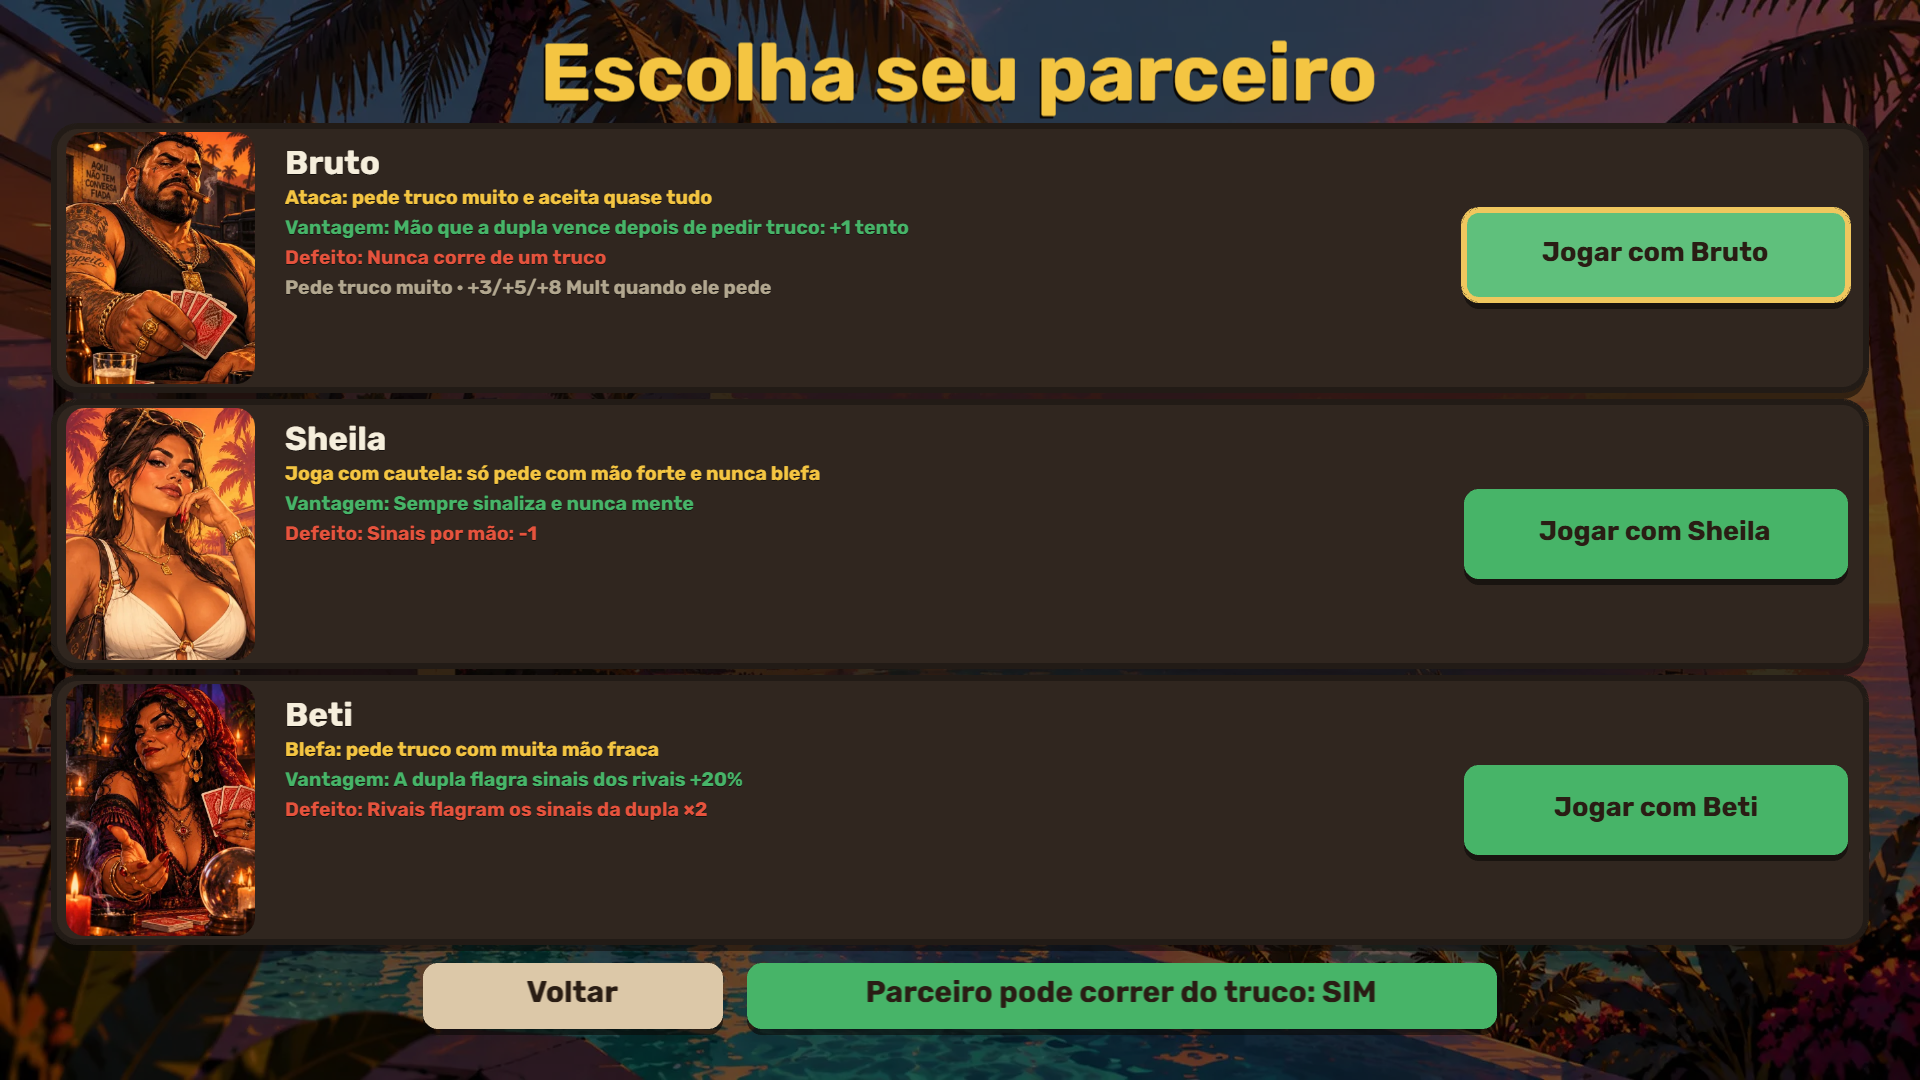
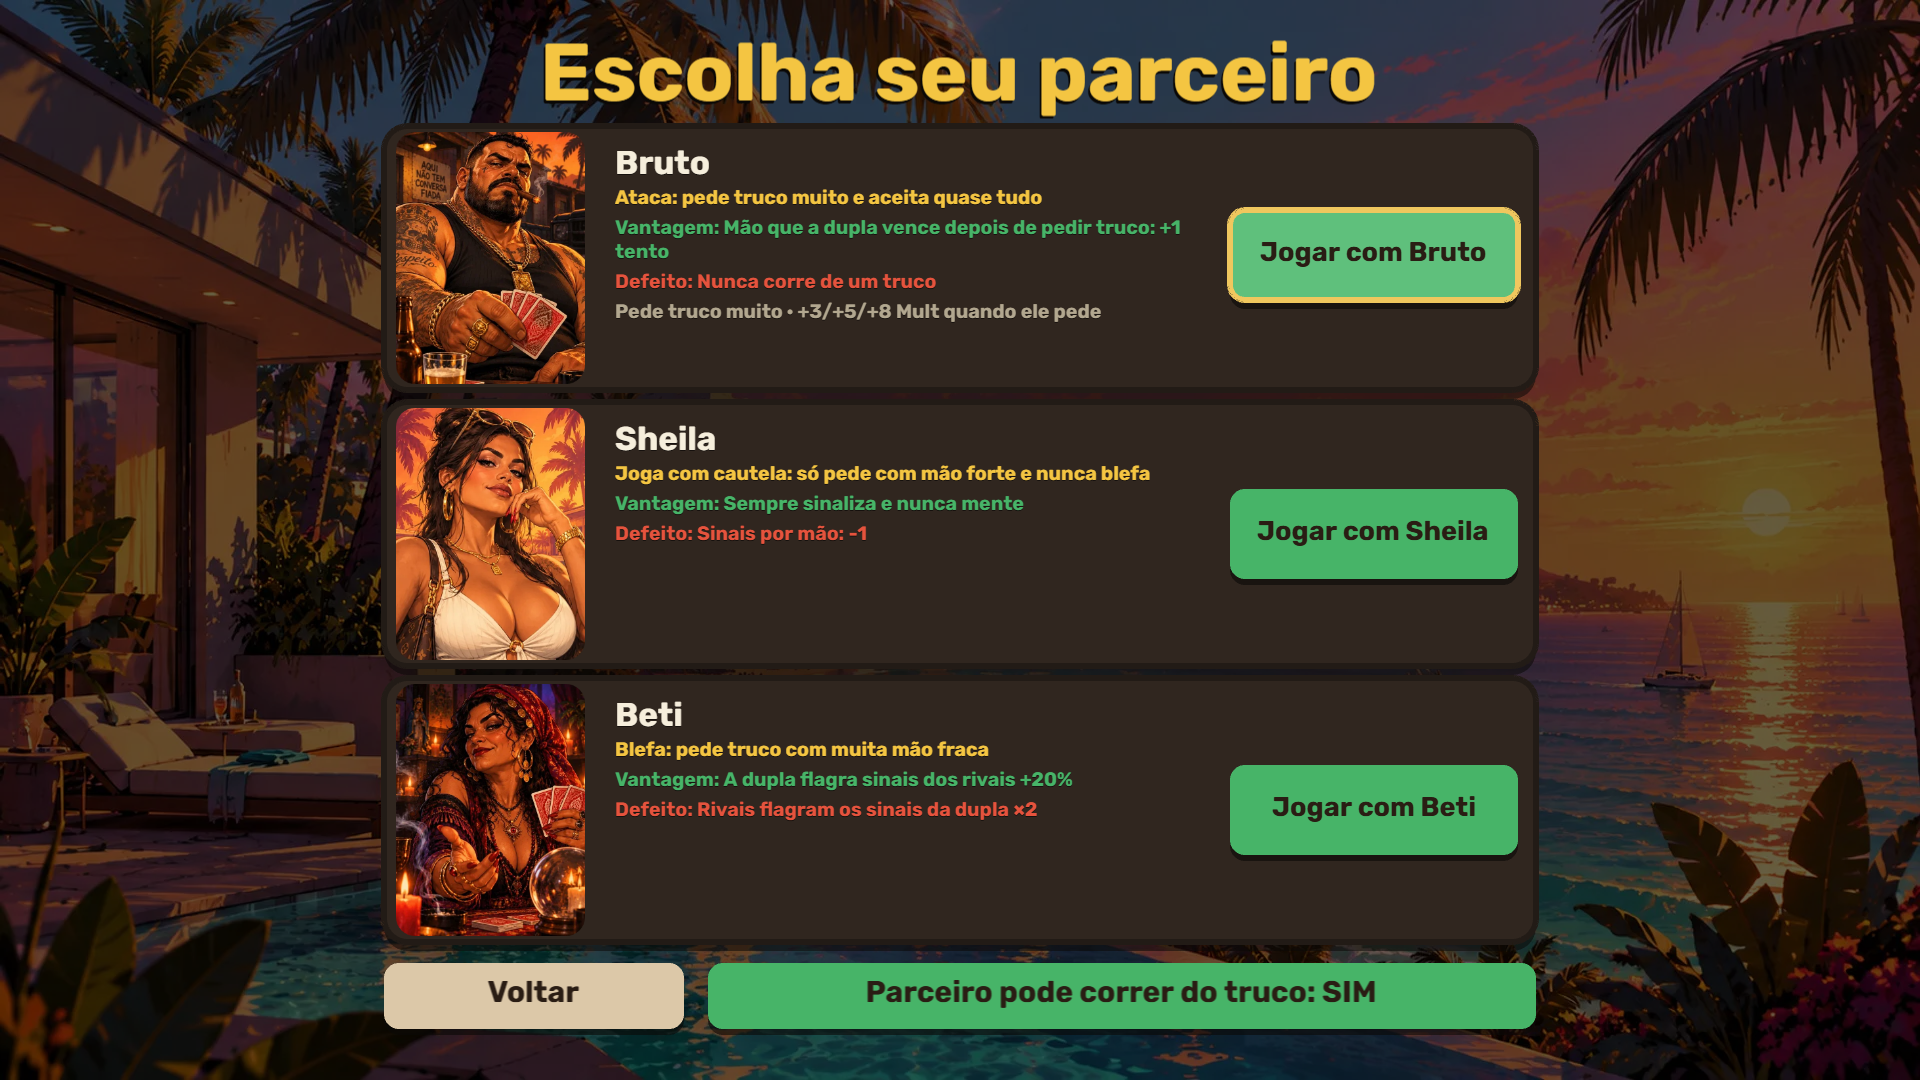
fix(ui): menu painting centred with black vignette bars, no mirror; buttons keep a bottom margin; narrower partner rows

diff --git a/src/view/menu-backdrop.ts b/src/view/menu-backdrop.ts
@@ -1,5 +1,4 @@
 import type Phaser from 'phaser';
-import { PALETTE } from '../config/palette';
 import { comfort } from './comfort';
 
 const KEYS = ['img.bg.menu-1', 'img.bg.menu-2', 'img.bg.menu-3'] as const;
@@ -8,15 +7,16 @@ const HOLD_MS = 7000;
 const FADE_MS = 500;
 /** The paintings are measured on this width (their source files are 1600 px wide). */
 const SRC_W = 1600;
-/** The painted logo ends at this source x in every painting: the view keeps at least this much. */
-const LOGO_RIGHT = 620;
-/** Most the painting may be enlarged (cropping its bottom) to fill the view's width. */
-const MAX_FILL = 1.06;
+/** Share of the painting's height kept free under the button column. */
+const BOTTOM_MARGIN = 0.07;
+/** Black vignette over a painting's edges that meet the black bars: its share of the size. */
+const VIGNETTE = { min: 0.02, max: 0.08 };
 
 /**
  * Where the logo and the button column are painted into each painting (source px), measured on
- * references/concept-art-gta/menu-1..3.jpeg. The game's own logo and buttons are laid over them,
- * same place and size, so no painted text shows under them (whatever the language).
+ * references/concept-art-gta/menu-1..3.jpeg. The game's own buttons are laid over the painted
+ * ones, same place and size, so no painted text shows under them (whatever the language); the
+ * logo has no words to translate and stays as painted.
  */
 export interface MenuGeo {
 	logo: { x: number; y: number; w: number; h: number };
@@ -28,6 +28,13 @@ export const MENU_GEO: readonly MenuGeo[] = [
 	{ logo: { x: 48, y: 82, w: 546, h: 198 }, col: { x: 58, w: 403, h: 60, y0: 312, step: 68 } },
 ];
 
+interface Rect {
+	x: number;
+	y: number;
+	width: number;
+	height: number;
+}
+
 /** What the scene needs to place its UI: the painting's top-left in stage px and its scale. */
 export interface MenuFrame {
 	geo: MenuGeo;
@@ -35,24 +42,27 @@ export interface MenuFrame {
 	k: number;
 	x: number;
 	y: number;
-	/** The visible stage rectangle. */
-	view: { x: number; y: number; width: number; height: number };
+	/** Where the painting is on the stage (the dots and the version stay inside it). */
+	art: Rect;
+	/** Stage y the button column must end above: a clear margin over the painting's bottom edge. */
+	bottom: number;
 }
 
 /**
- * Rotating painted backdrop of the main menu (like the concept art: full-screen painting, logo
- * and buttons over it). The painting fits the view's height and sits at the top left, so the
- * painted UI is always on screen; wider views show the dimmed main backdrop to its right. It
- * changes every HOLD_MS with a crossfade, or by hand with left/right and the dots. `onFrame` fires
- * when the layout or the slide changes, so the scene can rebuild its logo and buttons on the new
- * geometry. Missing images (failed load) leave the scene as is.
+ * Rotating painted backdrop of the main menu (like the concept art: full-screen painting, buttons
+ * over it). The painting is fitted whole (never stretched, mirrored or repeated) and centred; what
+ * is left of the view is black, with a black vignette over the painting's edges that meet it, so
+ * there is no hard line. It changes every HOLD_MS with a crossfade, or by hand with left/right and
+ * the dots. `onFrame` fires when the layout or the slide changes, so the scene can rebuild its
+ * buttons on the new geometry. Missing images (failed load) leave the scene as is.
  */
 export class MenuBackdrop {
 	private readonly images: Phaser.GameObjects.Image[];
-	private readonly edge: Phaser.GameObjects.Graphics;
+	private readonly bars: Phaser.GameObjects.Graphics;
+	private readonly vignette: Phaser.GameObjects.Graphics;
 	private readonly dots: Phaser.GameObjects.Arc[] = [];
 	private current = 0;
-	private view = { x: 0, y: 0, width: 640, height: 360 };
+	private view: Rect = { x: 0, y: 0, width: 640, height: 360 };
 	private timer: Phaser.Time.TimerEvent | null = null;
 
 	constructor(
@@ -63,12 +73,13 @@ export class MenuBackdrop {
 		this.images = keys.map((k) =>
 			scene.add.image(0, 0, k).setOrigin(0, 0).setDepth(-20).setAlpha(0),
 		);
-		this.edge = scene.add.graphics().setDepth(-19);
+		this.bars = scene.add.graphics().setDepth(-21);
+		this.vignette = scene.add.graphics().setDepth(-19);
 		this.images[0]?.setAlpha(1);
 		this.images.forEach((_, i) => {
 			const dot = scene.add
-				.circle(0, 0, 3.5, PALETTE.textLight)
-				.setStrokeStyle(1, PALETTE.night, 0.8)
+				.circle(0, 0, 3.5, 0xffffff)
+				.setStrokeStyle(1, 0x000000, 0.8)
 				.setDepth(5)
 				.setInteractive({ useHandCursor: true });
 			dot.on('pointerdown', () => this.go(i));
@@ -79,48 +90,72 @@ export class MenuBackdrop {
 		scene.events.once('shutdown', () => this.timer?.remove());
 	}
 
-	/** Fits the painting to the visible stage rectangle and tells the scene where its UI goes. */
-	layout(view: { x: number; y: number; width: number; height: number }): void {
+	/** Fits the painting into the visible stage rectangle and tells the scene where its UI goes. */
+	layout(view: Rect): void {
 		this.view = view;
-		const img = this.images[this.current];
-		if (!img) return;
-		const aspect = img.width / img.height;
-		// Fit the height, but never let the painted logo run off the right side.
-		const fitted = Math.min(view.height, view.width / ((LOGO_RIGHT / SRC_W) * aspect));
-		// Slightly narrower than the view (menu-2 is 1.70, the screen 1.78): fill the width and
-		// let the bottom crop a little instead of leaving a strip; the buttons end well above it.
-		const width = Math.min(Math.max(fitted * aspect, view.width), fitted * aspect * MAX_FILL);
-		const height = width / aspect;
-		const [x, y] = [view.x, view.y];
-		for (const i of this.images) i.setPosition(x, y).setDisplaySize(width, height);
-		// A view wider than the painting: its right edge fades into the main backdrop behind.
-		const g = this.edge.clear();
-		if (width < view.width - 1) {
-			const fade = Math.min(48, width * 0.08);
-			g.fillGradientStyle(
-				PALETTE.night,
-				PALETTE.night,
-				PALETTE.night,
-				PALETTE.night,
-				0,
-				0.7,
-				0,
-				0.7,
-			).fillRect(x + width - fade, y, fade, height);
+		const cur = this.images[this.current];
+		if (!cur) return;
+		// Fit the height; a view narrower than the painting fits the width instead. Each painting
+		// has its own proportion (menu-2 is a little narrower), so each is fitted on its own.
+		const fit = (img: Phaser.GameObjects.Image): Rect => {
+			const aspect = img.width / img.height;
+			const height = Math.min(view.height, view.width / aspect);
+			const width = height * aspect;
+			return {
+				x: view.x + (view.width - width) / 2,
+				y: view.y + (view.height - height) / 2,
+				width,
+				height,
+			};
+		};
+		for (const img of this.images) {
+			const r = fit(img);
+			img.setPosition(r.x, r.y).setDisplaySize(r.width, r.height);
 		}
-		const bottom = y + height;
-		const mid = x + width / 2;
-		for (const [i, d] of this.dots.entries())
-			d.setPosition(
-				mid + (i - (this.dots.length - 1) / 2) * 12,
-				Math.min(bottom, view.y + view.height) - 8,
+		const { x, y, width, height } = fit(cur);
+
+		this.bars
+			.clear()
+			.fillStyle(0x000000, 1)
+			.fillRect(view.x - 2, view.y - 2, view.width + 4, view.height + 4);
+		const g = this.vignette.clear();
+		const black = 0x000000;
+		const side = (view.width - width) / 2;
+		if (side > 0.5) {
+			const ramp = Math.min(Math.max(side * 2, width * VIGNETTE.min), width * VIGNETTE.max);
+			g.fillGradientStyle(black, black, black, black, 1, 0, 1, 0).fillRect(
+				x,
+				y,
+				ramp,
+				height,
 			);
+			g.fillGradientStyle(black, black, black, black, 0, 1, 0, 1).fillRect(
+				x + width - ramp,
+				y,
+				ramp,
+				height,
+			);
+		}
+		const band = (view.height - height) / 2;
+		if (band > 0.5) {
+			const ramp = Math.min(Math.max(band * 2, height * VIGNETTE.min), height * VIGNETTE.max);
+			g.fillGradientStyle(black, black, black, black, 1, 1, 0, 0).fillRect(x, y, width, ramp);
+			g.fillGradientStyle(black, black, black, black, 0, 0, 1, 1).fillRect(
+				x,
+				y + height - ramp,
+				width,
+				ramp,
+			);
+		}
+		for (const [i, d] of this.dots.entries())
+			d.setPosition(x + width / 2 + (i - (this.dots.length - 1) / 2) * 12, y + height - 8);
 		this.onFrame({
 			geo: MENU_GEO[this.current] ?? (MENU_GEO[0] as MenuGeo),
 			k: width / SRC_W,
 			x,
 			y,
-			view,
+			art: { x, y, width, height },
+			bottom: y + height * (1 - BOTTOM_MARGIN),
 		});
 	}
 

diff --git a/src/scenes/MenuScene.ts b/src/scenes/MenuScene.ts
@@ -101,6 +101,12 @@ export class MenuScene extends Phaser.Scene {
 			for (const o of layer) o.destroy();
 			const { col } = f.geo;
 			const h = col.h * f.k;
+			// The column keeps the painted step, tightening only if the last row would end under the margin.
+			const first = f.y + col.y0 * f.k;
+			const step = Math.min(
+				col.step * f.k,
+				rows.length > 1 ? (f.bottom - first - h) / (rows.length - 1) : Infinity,
+			);
 			buttons = rows.map((row, i) =>
 				new Button(
 					this,
@@ -118,14 +124,11 @@ export class MenuScene extends Phaser.Scene {
 						onHover: () => this.move(rows, i - this.focus, true),
 					},
 				)
-					.setPosition(
-						f.x + (col.x + col.w / 2) * f.k,
-						f.y + (col.y0 + i * col.step) * f.k + h / 2,
-					)
+					.setPosition(f.x + (col.x + col.w / 2) * f.k, first + i * step + h / 2)
 					.setEnabled(!row.disabled),
 			);
 			layer = [...buttons];
-			version.setPosition(f.view.x + f.view.width - 6, f.view.y + f.view.height - 4);
+			version.setPosition(f.art.x + f.art.width - 6, f.art.y + f.art.height - 4);
 			this.redraw();
 		};
 		const backdrop = new MenuBackdrop(this, build);

diff --git a/src/scenes/RunScene.ts b/src/scenes/RunScene.ts
@@ -363,7 +363,7 @@ export class RunScene extends Phaser.Scene {
 		const { cx } = this;
 		this.title(cx, 24, t('run.choosePartner'), TYPE.screenTitle);
 		const offer = this.ensureCandidates();
-		const [rowW, rowH, gap, top] = [604, 88, 4, 42];
+		const [rowW, rowH, gap, top] = [384, 88, 4, 42];
 		const x0 = cx - rowW / 2;
 		offer.forEach((id, i) => {
 			const y = top + i * (rowH + gap);
@@ -374,7 +374,7 @@ export class RunScene extends Phaser.Scene {
 					.image(x0 + 4 + cw / 2, y + rowH / 2, tex(this, `charcard.${id}`))
 					.setDisplaySize(cw, ch),
 			);
-			const btnW = 128;
+			const btnW = 96;
 			const tx = x0 + 4 + cw + 10;
 			const tw = rowW - (tx - x0) - btnW - 20;
 			// Each block starts under the one before, whatever its wrap: the rows keep one rhythm.
@@ -414,7 +414,7 @@ export class RunScene extends Phaser.Scene {
 		});
 		// Back and the partner-folds toggle: one row centred under the partners.
 		const backW = 100;
-		const foldW = 250;
+		const foldW = rowW - backW - GAP.card;
 		const row = cx - (backW + GAP.card + foldW) / 2;
 		const by = top + 3 * (rowH + gap) + 14;
 		this.button(
